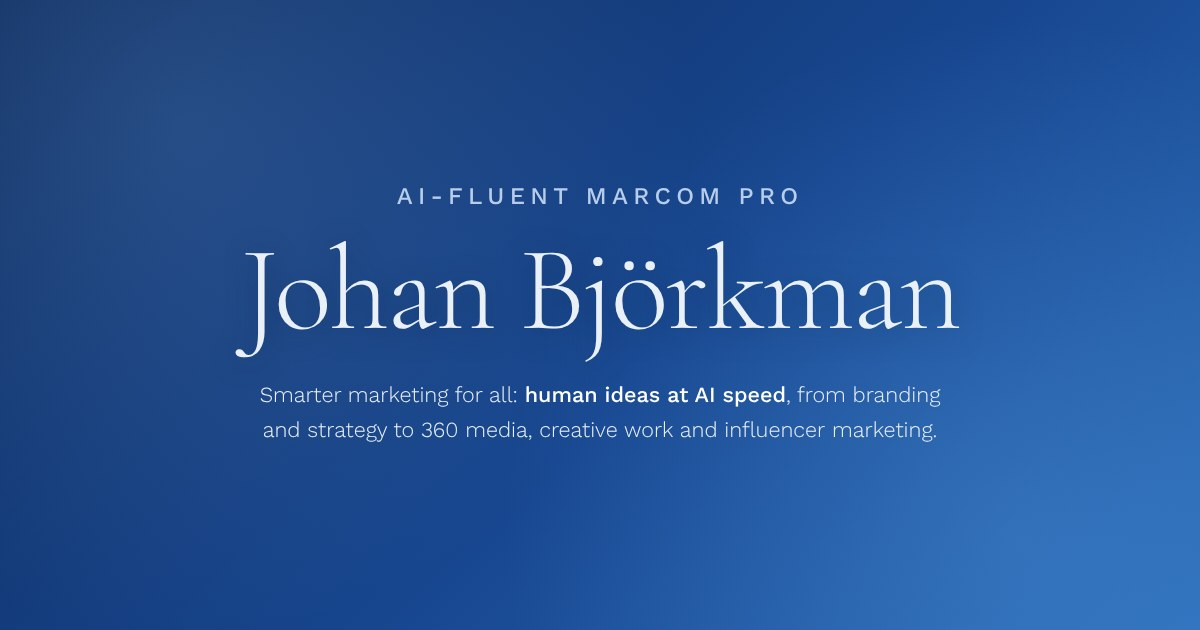
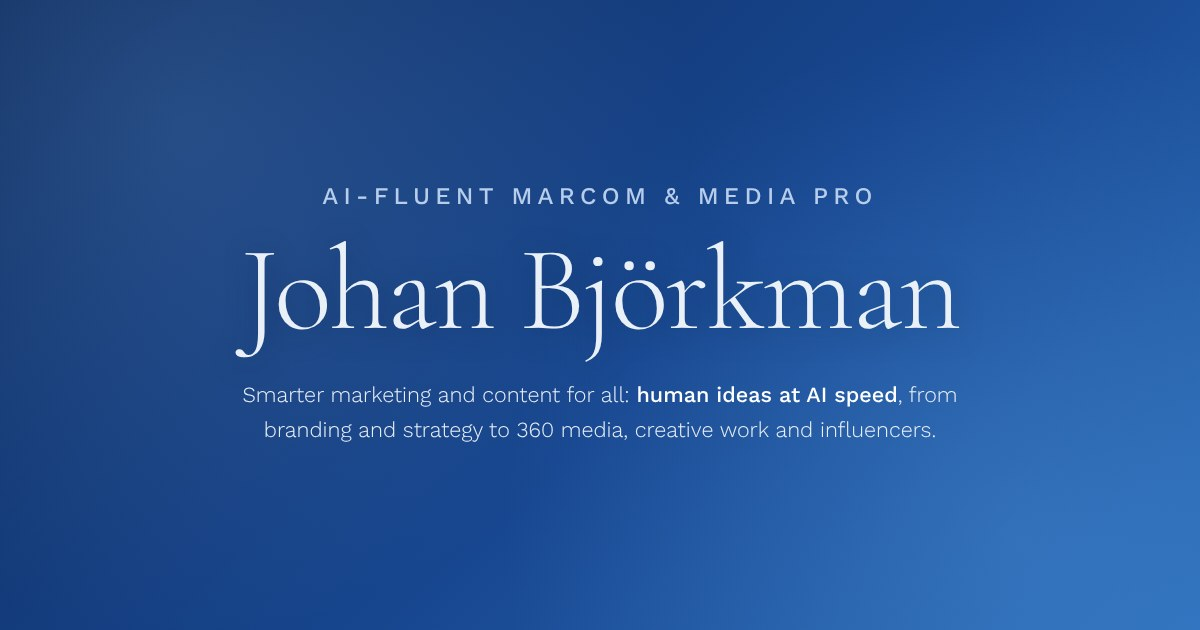
Retitle to AI-Fluent MarCom & Media Pro and widen the pitch to content
Updates the hero eyebrow and pitch, page titles, meta and Open Graph
tags, JSON-LD, llms.txt and the share image.

Claude-Session: https://claude.ai/code/session_01S5f6pqeVdANGyoqY1DnoVf

Changed region(s): [[0.185, 0.6032, 0.8017, 0.6937], [0.2467, 0.3016, 0.74, 0.3317]]

diff --git a/index.html b/index.html
@@ -3,10 +3,10 @@
 <head>
     <meta charset="UTF-8">
     <meta name="viewport" content="width=device-width, initial-scale=1.0">
-    <title>Johan Björkman · AI-Fluent MarCom Pro</title>
-    <meta name="description" content="Johan Björkman is an AI-fluent MarCom pro. Smarter marketing for all: human ideas at AI speed, from branding and strategy to 360 media, creative work and influencers.">
+    <title>Johan Björkman · AI-Fluent MarCom &amp; Media Pro</title>
+    <meta name="description" content="Johan Björkman is an AI-fluent MarCom &amp; media pro. Smarter marketing and content for all: human ideas at AI speed, from branding and strategy to 360 media, creative work and influencers.">
     <meta property="og:type" content="website">
-    <meta property="og:title" content="Johan Björkman · AI-Fluent MarCom Pro">
+    <meta property="og:title" content="Johan Björkman · AI-Fluent MarCom &amp; Media Pro">
     <meta property="og:description" content="Selected work for Elisa, OnePlus and Republic: retail campaigns, launches, social, PR and performance marketing.">
     <meta property="og:url" content="https://johanbjorkman.media/">
     <link rel="canonical" href="https://johanbjorkman.media/">
@@ -15,7 +15,7 @@
     <meta property="og:image" content="https://johanbjorkman.media/og-image.jpg">
     <meta property="og:image:width" content="1200">
     <meta property="og:image:height" content="630">
-    <meta property="og:image:alt" content="Johan Björkman, AI-Fluent MarCom Pro">
+    <meta property="og:image:alt" content="Johan Björkman, AI-Fluent MarCom &amp; Media Pro">
     <meta name="twitter:card" content="summary_large_image">
     <meta name="author" content="Johan Björkman">
     <meta name="robots" content="index, follow, max-image-preview:large">
@@ -39,7 +39,7 @@
           "@type": "ProfilePage",
           "@id": "https://johanbjorkman.media/#profile",
           "url": "https://johanbjorkman.media/",
-          "name": "Johan Björkman · AI-Fluent MarCom Pro",
+          "name": "Johan Björkman · AI-Fluent MarCom & Media Pro",
           "isPartOf": {
             "@id": "https://johanbjorkman.media/#website"
           },
@@ -62,7 +62,7 @@
           "@type": "Person",
           "@id": "https://johanbjorkman.media/#person",
           "name": "Johan Björkman",
-          "jobTitle": "AI-Fluent MarCom Pro",
+          "jobTitle": "AI-Fluent MarCom & Media Pro",
           "description": "Marketing communications professional helping brands with branding and strategy, 360 media, creative work, social media, PR, influencer and performance marketing.",
           "url": "https://johanbjorkman.media/",
           "image": "https://johanbjorkman.media/og-image.jpg",
@@ -814,9 +814,9 @@
     <section class="hero">
         <div class="hero-bg"></div>
         <div class="hero-content">
-            <p class="hero-eyebrow">AI-Fluent MarCom Pro</p>
+            <p class="hero-eyebrow">AI-Fluent MarCom &amp; Media Pro</p>
             <h1>Johan Björkman</h1>
-            <p class="hero-tagline">Smarter marketing for all: <strong class="nowrap">human ideas at AI speed</strong>, from branding and strategy to 360&nbsp;media, creative work and&nbsp;influencers.</p>
+            <p class="hero-tagline">Smarter marketing and content for&nbsp;all: <strong class="nowrap">human ideas at AI speed</strong>, from branding and strategy to 360&nbsp;media, creative work and&nbsp;influencers.</p>
         </div>
         <a href="#elisa" class="scroll-indicator" aria-label="Scroll to my work">
             <span aria-hidden="true"></span>

diff --git a/cases/elisa.html b/cases/elisa.html
@@ -15,7 +15,7 @@
     <meta property="og:image" content="https://johanbjorkman.media/og-image.jpg">
     <meta property="og:image:width" content="1200">
     <meta property="og:image:height" content="630">
-    <meta property="og:image:alt" content="Johan Björkman, AI-Fluent MarCom Pro">
+    <meta property="og:image:alt" content="Johan Björkman, AI-Fluent MarCom &amp; Media Pro">
     <meta name="twitter:card" content="summary_large_image">
     <meta name="author" content="Johan Björkman">
     <meta name="robots" content="index, follow, max-image-preview:large">

diff --git a/cases/more-work.html b/cases/more-work.html
@@ -15,7 +15,7 @@
     <meta property="og:image" content="https://johanbjorkman.media/og-image.jpg">
     <meta property="og:image:width" content="1200">
     <meta property="og:image:height" content="630">
-    <meta property="og:image:alt" content="Johan Björkman, AI-Fluent MarCom Pro">
+    <meta property="og:image:alt" content="Johan Björkman, AI-Fluent MarCom &amp; Media Pro">
     <meta name="twitter:card" content="summary_large_image">
     <meta name="author" content="Johan Björkman">
     <meta name="robots" content="index, follow, max-image-preview:large">

diff --git a/cases/oneplus.html b/cases/oneplus.html
@@ -15,7 +15,7 @@
     <meta property="og:image" content="https://johanbjorkman.media/og-image.jpg">
     <meta property="og:image:width" content="1200">
     <meta property="og:image:height" content="630">
-    <meta property="og:image:alt" content="Johan Björkman, AI-Fluent MarCom Pro">
+    <meta property="og:image:alt" content="Johan Björkman, AI-Fluent MarCom &amp; Media Pro">
     <meta name="twitter:card" content="summary_large_image">
     <meta name="author" content="Johan Björkman">
     <meta name="robots" content="index, follow, max-image-preview:large">

diff --git a/cases/republic.html b/cases/republic.html
@@ -15,7 +15,7 @@
     <meta property="og:image" content="https://johanbjorkman.media/og-image.jpg">
     <meta property="og:image:width" content="1200">
     <meta property="og:image:height" content="630">
-    <meta property="og:image:alt" content="Johan Björkman, AI-Fluent MarCom Pro">
+    <meta property="og:image:alt" content="Johan Björkman, AI-Fluent MarCom &amp; Media Pro">
     <meta name="twitter:card" content="summary_large_image">
     <meta name="author" content="Johan Björkman">
     <meta name="robots" content="index, follow, max-image-preview:large">
